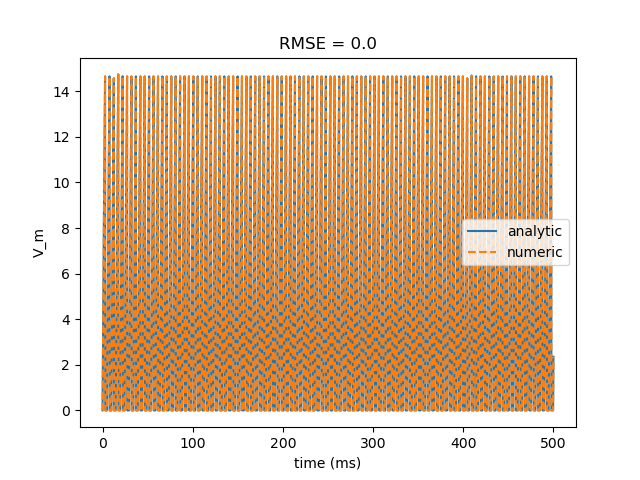
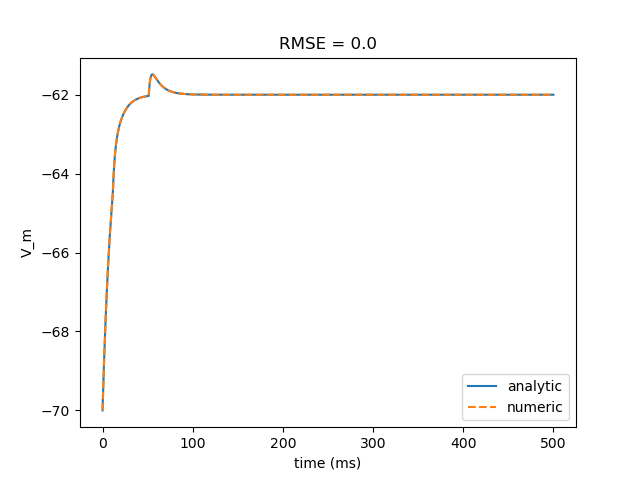
new

diff --git a/testing/test_iaf_psc_exp_neuron_nestml_compare.py b/testing/test_iaf_psc_exp_neuron_nestml_compare.py
@@ -15,19 +15,20 @@ outfile = os.environ.get("OUTFILE", "output_vm.txt")
 reference_file = os.environ.get("REFERENCE_FILE", "")
 
 # Plot output
-plot_file = os.environ.get("PLOT_FILE", "iaf_psc_exp_plot.png")
+plot_file = os.environ.get("PLOT_FILE", "iaf_psc_exp_neuron_nestml_plot.png")
 
 # Setup NEST GPU
 ngpu.SetTimeResolution(0.1)
 ngpu.SetRandomSeed(123)
 
 # Create neuron
-neuron = ngpu.Create("iaf_psc_exp", 1)
+neuron = ngpu.Create("iaf_psc_exp_neuron_nestml", 1)
 
 
 #spike-generator input.
 ngpu.SetStatus(neuron, {
-    "I_e": 1500.0,
+
+    "I_e": 200.0,# changed from 1500
     "tau_m": 10.0,
     "C_m": 250.0,
     "E_L": -70.0
@@ -38,7 +39,7 @@ ngpu.SetStatus(neuron, {
 spike = ngpu.Create("spike_generator")
 
 # Example spike times in ms
-spike_times = [10.0, 400.0]
+spike_times = [10.0, 50.0] # changed from [10.0, 400.0]
 n_spikes = len(spike_times)
 
 # Set spike times
@@ -55,7 +56,7 @@ syn_spec_ex = {
 ngpu.Connect(spike, neuron, conn_spec, syn_spec_ex)
 
 # Record membrane potential
-record = ngpu.CreateRecord("", ["V_m_rel"], [neuron[0]], [0])
+record = ngpu.CreateRecord("", ["V_m"], [neuron[0]], [0])
 
 # Simulate
 sim_time = 500.0

diff --git a/src/neuron_models.h b/src/neuron_models.h
@@ -32,6 +32,7 @@ enum NeuronModels {
   i_iaf_psc_exp_g_model,  
   i_iaf_psc_exp_hc_model,
   i_iaf_psc_exp_model,
+  i_iaf_psc_exp_neuron_nestml_model,
   i_ext_neuron_model,
   i_aeif_cond_alpha_model,
   i_aeif_cond_beta_model,
@@ -61,6 +62,7 @@ const std::string neuron_model_name[N_NEURON_MODELS] = {
   "iaf_psc_exp_g",
   "iaf_psc_exp_hc",
   "iaf_psc_exp",
+  "iaf_psc_exp_neuron_nestml",
   "ext_neuron",
   "aeif_cond_alpha",
   "aeif_cond_beta",

diff --git a/src/iaf_psc_exp_neuron_nestml.h b/src/iaf_psc_exp_neuron_nestml.h
@@ -131,7 +131,8 @@ public:
   IafPscExpOdeintSolver* odeint_solver_ = nullptr;
 #endif
 
-  int Init(int i_node_0, int n_neuron, int n_port, int i_group);
+  int Init(int i_node_0, int n_neuron, int n_port, int i_group,
+         unsigned long long* seed = nullptr);
   int Calibrate(double time_min, float time_resolution);
   int Update(long long it, double t1);
   int Free();
